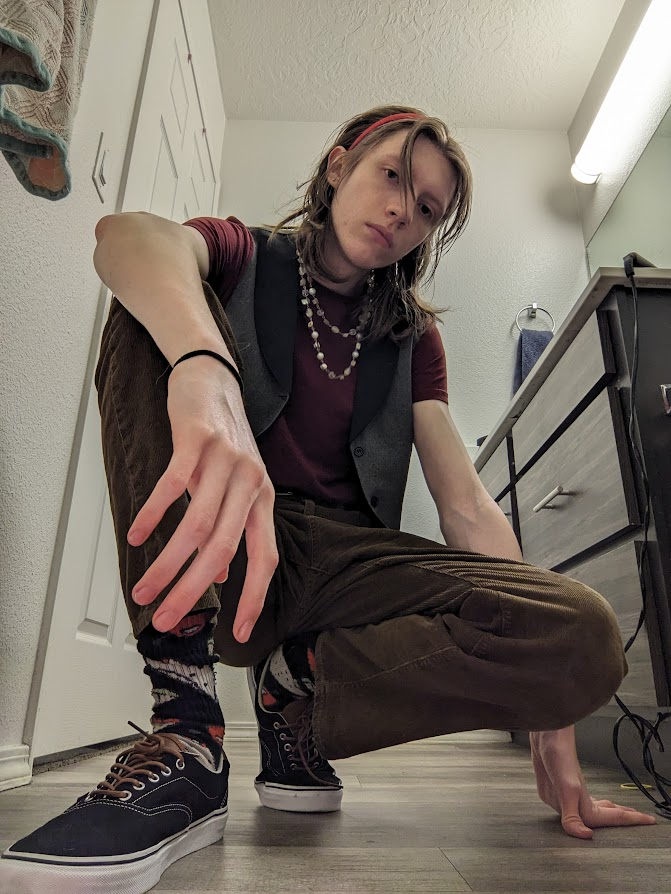
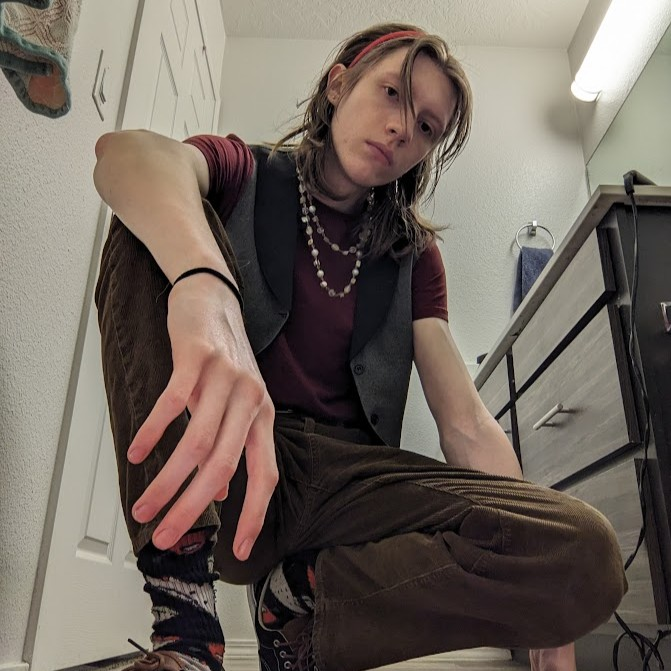
Updated Reel & About Me

diff --git a/pages/aboutme.html b/pages/aboutme.html
@@ -6,14 +6,14 @@
     Hey there,
 </p>
 <p>
-    I go by Micah Stotesbery, I'm an actor based in Salt Lake City, and my favorite animal is a raccoon even though I've only ever seen a real one from 20 yards away on a dark bike path at 11pm. Whether it's a unique accent, tight harmonies, or complicated memorization, I excel at the highly technical aspects of performance. I've been told I think like a director, and I tend to agree with that: my brain is constantly in motion, coming up with ideas and solutions to problems.
+I go by <b>Micah Stotesbery</b>, I'm an actor based in <b>Salt Lake City, Utah</b>, and my favorite animal is a raccoon even though I've only ever seen a real one from 20 yards away on a dark bike path at 11pm. When it comes to performance, I'd say I excel at the highly technical aspects: unique accents, tight harmonies, complicated memorization, etc. I always feel the most myself when I am challenged, and acting is no exception.
 </p>
 <p>
-    I mostly have experience with live theatre, but recently I have begun acting in film as well. In my roles, I try to bring authenticity and parts of myself to the character, which usually means I accidentally imbue them with queer subtext. I often play the outsider character, someone who doesn't quite fit in or becomes the antagonist. But I believe that any villain in a story has layers you can empathize with and learn from.
+I started performing as a kid, playing music with my father and brothers. I started getting involved in theatre during high school and when I went to college I decided it was the thing that excited me most. I have recently graduated with my <b>BFA in Acting Performance</b> from Utah Valley University. I mostly have experience with live theatre, both plays and musicals, but recently I have begun acting in film as well. In my roles, I try to bring realism, authenticity, and parts of myself to the character, which usually means I accidentally imbue them with queer subtext. I often play the outsider character: someone who doesn't quite fit in or is forced into the antagonist role. Examples of this from my recent work include Professor Bhaer in <i>Little Women</i> and Ben Weatherstaff from <i>The Secret Garden</i>. But I believe that any villain in a story has layers you can peel back to reveal a character full of depth and sympathy.
 </p>
 <p>
-    I've always had trouble connecting with my peers, except for through the performing arts. I'm very interested in how performance can empower individuals and spark connection between people of different backgrounds. As a hobbyist computer programmer, my dream is to bring live performance to lonely people through technology and the internet, and I believe that we have only begun to scratch the surface of what our modern technology is capable of. 
+My whole life, I have struggled with connecting with and befriending my peers. I always try to be kind, but I'm not the most sociable person. I always found online interactions to be easier than in-person ones. This changed when I started performing, and I'm very interested in how performing arts can empower individuals and spark connection between people of different backgrounds. As a hobbyist computer programmer and game developer, my dream is to bring live performance to lonely people through technology and the internet, using the mediums of film and virtual reality.
 </p>
 <p>
-    When I'm not performing, I spend my time working on various programming projects (I programmed this website from scratch!), drawing, crocheting, or playing indie games. If any of this interests you, consider subscribing to my <a>YouTube channel</a> or joining my <a>mailing list</a> to stay updated with my work and projects. 
+Beyond acting, I spend my time working on various programming projects (I programmed this website from scratch!), drawing, crocheting, or playing indie games. Acting is one of my many creative outlets, and I am always creating things in various mediums. If any of this interests you, consider subscribing to my <a>YouTube channel</a> to stay updated with my work and projects. 
 </p>

diff --git a/about.html b/about.html
@@ -25,14 +25,16 @@
     <div class="banner" style="background-image:url('resources/images/IMG_20260402_130750.jpg');background-position:center 40%;">
         <h1>About Me</h1>
     </div>
-    <div class="content" id="main">
+    <div class="content" id="main" style="margin-bottom: 0;padding-top:3em;">
     </div>
     <div class="content">
-        <div id="tri_display">
-            <div><img style="width:100%;" src="resources/images/bathroom.jpg"></div>
-            <div><img style="width:100%;" src="resources/images/mountain.jpg"></div>
-            <div><img style="width:100%;" src="resources/images/20230429_111506.jpg"></div>
+        <div id="about_images">
+            <div><img style="width: 100%;" src="resources/images/bathroom.jpg"></div>
+            <div><img style="width: 100%;" src="resources/images/mountain.jpg"></div>
+            <div><img style="width: 100%;" src="resources/images/20230429_111506.jpg"></div>
+            <div><img style="width: 100%;" src="resources/images/screenshot.png"></div>
         </div>
+        <p style="color:var(--image-display)">1) A selfie I took for the sake of the fit. I love fashion. 2) A picture of the mountains in my hometown of Sandy, Utah. 3) A picture of me and my dog, Charley, on a hike in southern Utah. 4) A screenshot from one of my video game hobby projects.</p>
     </div>
     <footer></footer>
 </body>

diff --git a/gallery.html b/gallery.html
@@ -288,9 +288,8 @@
         <h1>Gallery</h1>
     </div>
     <div class="content highlight">
-        <h2>Reels</h2>
-        <iframe width="560" height="315" src="https://www.youtube.com/embed/Snj-nsNgP9M?si=UFYxbqDRJys_tW5p" title="YouTube video player" frameborder="0" allow="accelerometer; autoplay; clipboard-write; encrypted-media; gyroscope; picture-in-picture; web-share" referrerpolicy="strict-origin-when-cross-origin" allowfullscreen></iframe>
-        <iframe width="560" height="315" src="https://www.youtube.com/embed/WWrTY-QsZHg?si=Luh05B3mTEDvGGfl" title="YouTube video player" frameborder="0" allow="accelerometer; autoplay; clipboard-write; encrypted-media; gyroscope; picture-in-picture; web-share" referrerpolicy="strict-origin-when-cross-origin" allowfullscreen></iframe>
+        <h2>Reels & Videos</h2>
+        <iframe width="560" height="315" src="https://www.youtube.com/embed/O_4-WwTf4ZM" title="YouTube video player" frameborder="0" allow="accelerometer; autoplay; clipboard-write; encrypted-media; gyroscope; picture-in-picture; web-share" referrerpolicy="strict-origin-when-cross-origin" allowfullscreen></iframe>
     </div>
     <div class="content" id="production_photos">
         <h2 style="margin-bottom:0;"><span class="accent-3-highlight">Production Photos</span></h2>

diff --git a/contact.html b/contact.html
@@ -21,11 +21,12 @@
 </head>
 <body>
     <header></header>
-    <div class="content">
+    <div class="content" style="min-height:80vh;">
         <div class="side_image_container">
             <img src="resources/images/Production Photos/Little Women-2.jpg">
         </div>
         <h1>Contact</h1>
+        <p>I check my email regularly! Feel free to send me a message:</p>
         <div style="display:flex;align-items: center;gap:0.5em;"><img style="height:3em;" src="resources/icons/email.png"><a href="mailto:micahstotes@gmail.com">micahstotes@gmail.com</a></div>
         <br>
         <div style="display:flex;align-items: center;gap:0.5em;"><img style="height:3em;" src="resources/icons/youtube.png"><a target="_blank" href="https://www.youtube.com/@MicahStotesbery">Micah Stotesbery | YouTube</a></div>

diff --git a/style.css b/style.css
@@ -108,10 +108,9 @@ header ul li a:hover {
     border-radius: 1em;
     box-shadow: 0 1em 2em rgba(0, 0, 0, 0.2);
 }
-#tri_display {
-    display:flex;
-    justify-content: center;
-    border-radius:2em;
+#about_images {
+    display:grid;
+    grid-template-columns: 25% 25% 25% 25%;
     width:100%;
     overflow:hidden;
 }
@@ -287,7 +286,8 @@ button {
     .banner h1 {
         font-size:10vw;
     }
-    #tri_display {
-        flex-direction: column;
+    #about_images {
+        display:grid;
+        grid-template-columns: 50% 50%;
     }
 }
